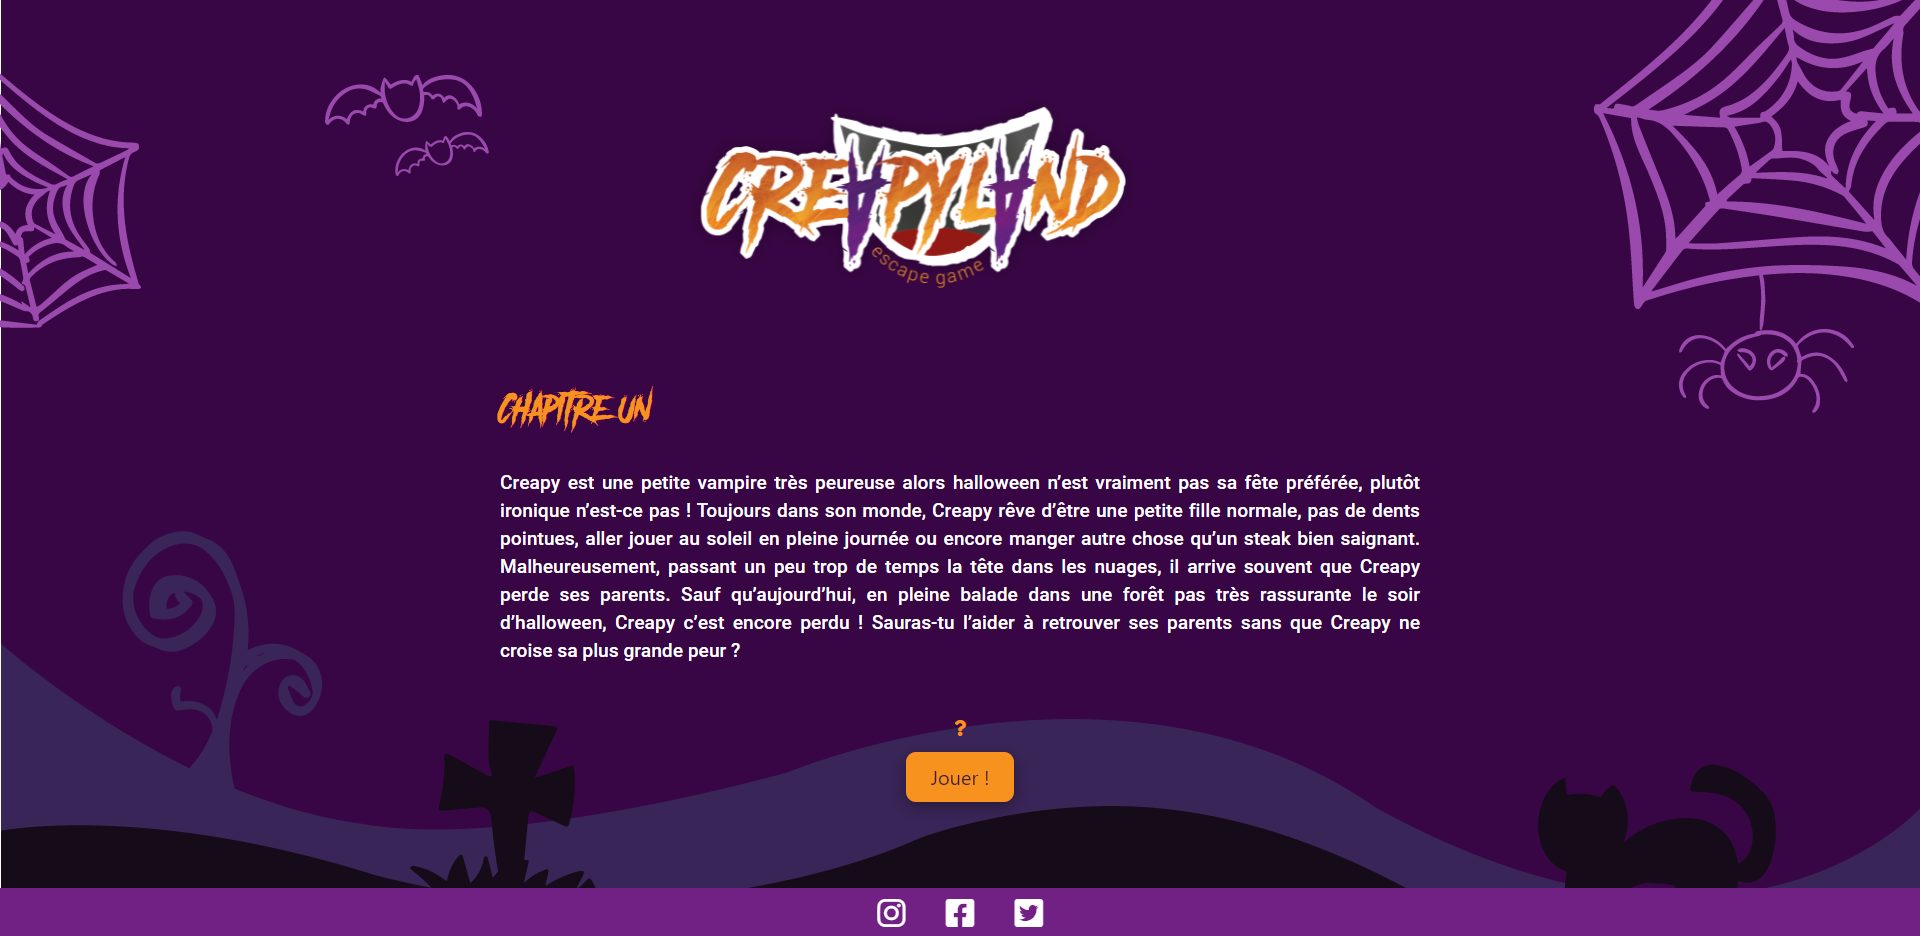
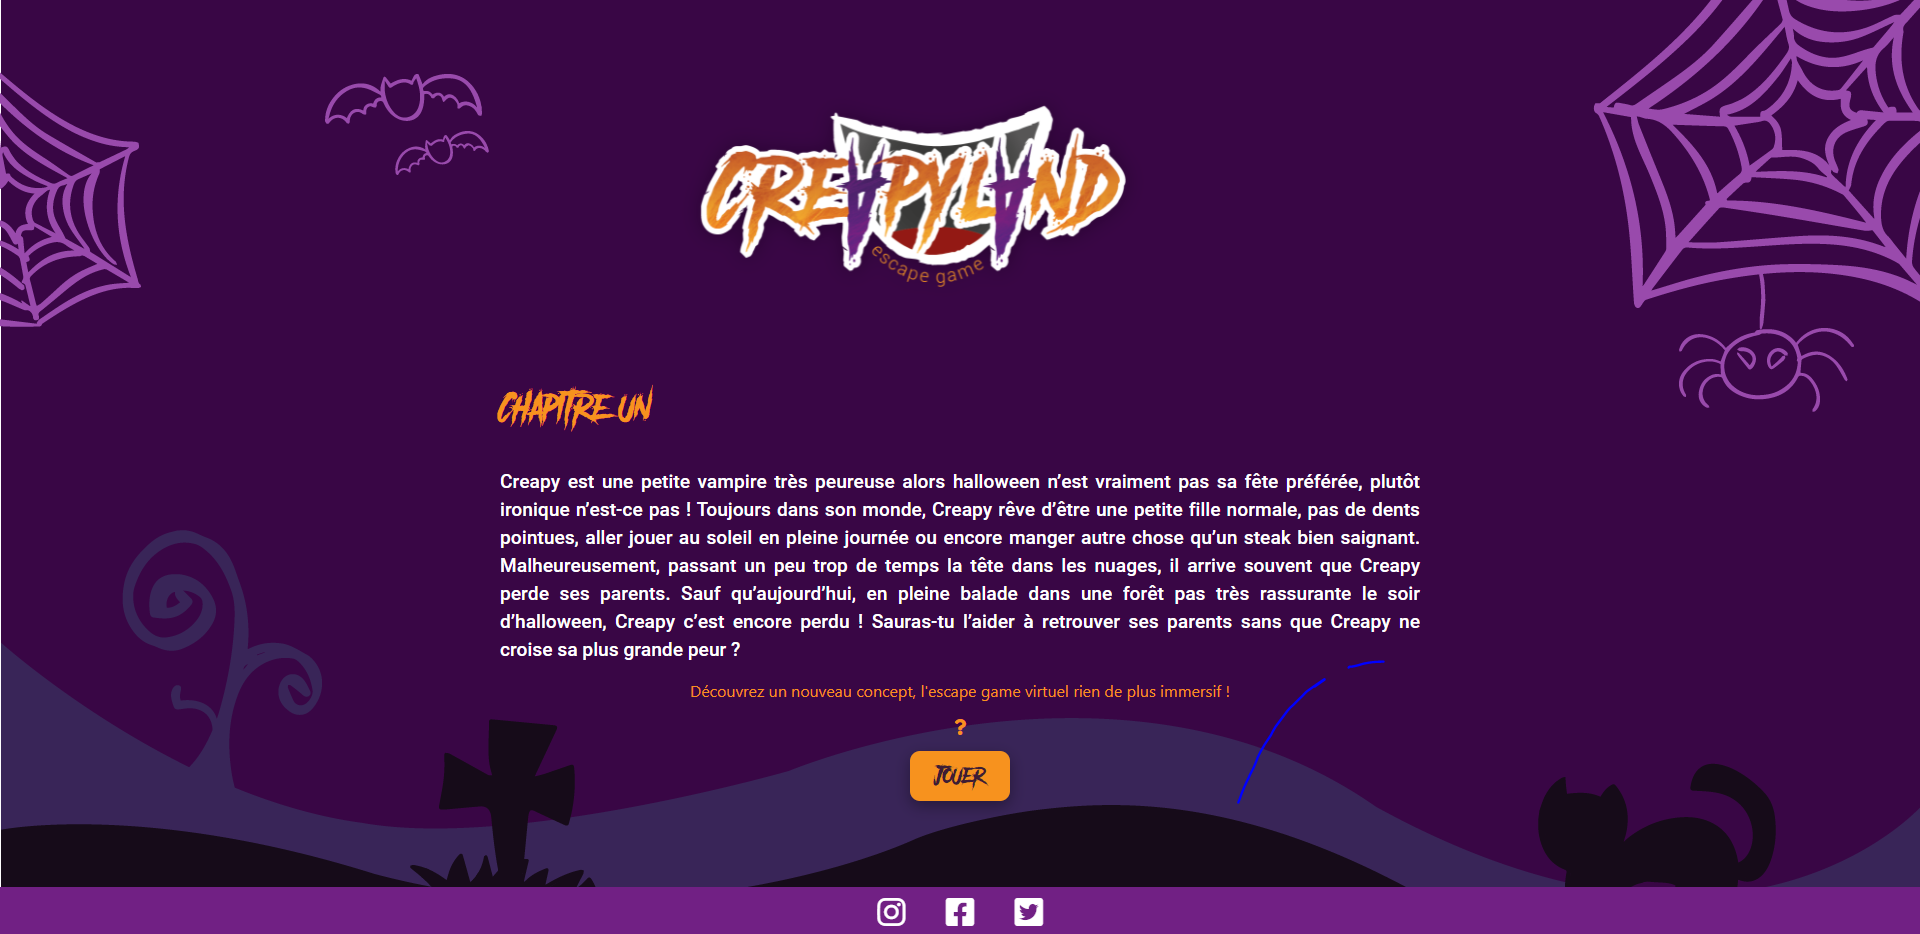
changement de police bouton jouer

diff --git a/index.html b/index.html
@@ -28,11 +28,8 @@
               </div>
 
               <div class="d-flex justify-content-center">
-                <a class="aLinkHome mt-3" href="index3.html">Jouer !</a>
+                <a class="aLinkHome mt-3 anotherDangerDemo" href="index3.html">Jouer</a>
               </div>
-
-
-
             </div>
           </div>
         </div>
